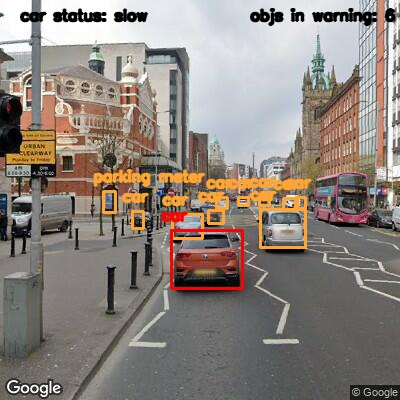
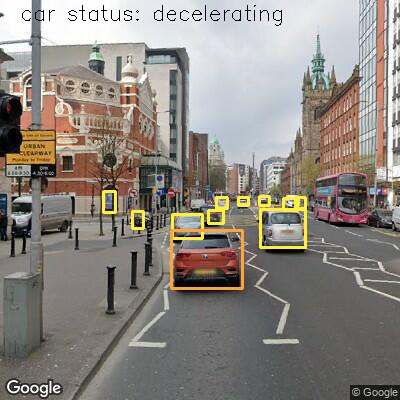
updated car status to accerate, decelerate and stop

Changed region(s): [[0.21, 0.42, 0.78, 0.75], [0.03, 0.0, 0.57, 0.06], [0.6, 0.0, 0.99, 0.06]]

diff --git a/learning_darkflow.py b/learning_darkflow.py
@@ -18,7 +18,10 @@ from darkflow.net.build import TFNet
 options = {"model": "./cfg/yolov2.cfg", "load": "./cfg/bin/yolov2.weights", "threshold": 0.1, "gpu": 1.0}
 tfnet = TFNet(options)
 
-objs_in_range = np.empty((3,2))
+prev_objs_in_slow_range = []
+prev_objs_in_stop_range = []
+objs_in_slow_range = []
+objs_in_stop_range = []
 car_status = ""
 folder = "test_route"
 routes = os.listdir("./{0}/".format(folder))
@@ -53,44 +56,59 @@ slow_zone = np.array([[driving_path[0][0],driving_path[0][1]+50],
 def decide_box_colour(label):
     colour = (0,0,255)
     if label.startswith("danger"):
+        colour = (51,165,255)
+    if label.startswith("stop"):
         colour = (0,0,255)
     if label.startswith("warning"):
+        colour = (51,240,255)
+    if label.startswith("slow"):
         colour = (51,165,255)
     return colour
 
-def check_status_of_car(num_of_pos_collision, num_of_obj_ahead):
-    if num_of_pos_collision > 0:
+def check_status_of_car():
+    status =''
+    status = check_stop_zone()
+    if status != "driving":
+        return status
+    status = check_slow_zone()
+    return status
+
+
+def check_stop_zone():
+    if len(objs_in_stop_range) > 0:
         return "stopped"
-    elif num_of_obj_ahead > 0:
-        return "slow"
-    else :
+    elif len(prev_objs_in_stop_range) > 0 and len(objs_in_stop_range) == 0:
+        return "accelerating"
+    else:
         return "driving"
 
-def write_boundingboxes(results, imgcv, new_img):
-    # cv2.imwrite(new_img, imgcv)
-    # imgcv = cv2.imread(new_img)
-    ## ROI: region of interest
-    num_of_pos_collision = 0
-    num_of_obj_ahead = 0
-    results = check_if_object_in_path(results)
+def check_slow_zone():
+    if len(prev_objs_in_slow_range) == 0 and len(objs_in_slow_range) > 0 :
+        return "decelerating"
+    elif len(objs_in_slow_range) > 0:
+        objs_in_slow_range.sort()
+        if len(prev_objs_in_slow_range) > 0:
+            prev_objs_in_slow_range.sort()
+            if objs_in_slow_range[-1] > prev_objs_in_slow_range[-1]:
+                return "decelerating"
+            elif objs_in_slow_range[-1] < prev_objs_in_slow_range[-1]:
+                return "accelerating"
+            else:
+                return "slow"
+        else:
+            return "slow"
+    else:
+        return "driving"
+
+
+def write_boundingboxes(results, imgcv, new_img, car_status):
     for result in results:
         if result['status']=='': continue 
         cv2.rectangle(imgcv,
                      (result["topleft"]["x"], result["topleft"]["y"]),
                      (result["bottomright"]["x"],result["bottomright"]["y"]),
                      decide_box_colour(result["status"]), 2)
-        text_x, text_y = int(result["topleft"]["x"]) - 10, int(result["topleft"]["y"]) - 10
-        cv2.putText(imgcv, result["label"], (text_x, text_y),cv2.FONT_HERSHEY_SIMPLEX, 0.5, decide_box_colour(result['status']), 2, cv2.LINE_AA)
-        if result['status'] == 'stop': 
-            num_of_pos_collision += 1
-        if result['status'] == 'slow': 
-            num_of_obj_ahead += 1
-            add_obj_to_warning_list(result["topleft"]["y"])
-
-    car_status = check_status_of_car(num_of_pos_collision,num_of_obj_ahead)
-    cv2.putText(imgcv, "car status: {0}".format(car_status), (20, 20),cv2.FONT_HERSHEY_SIMPLEX, 0.5, (0,0,0), 2, cv2.LINE_AA)
-    cv2.putText(imgcv, "objs in warning: {0}".format(objs_in_range.size), (250, 20),cv2.FONT_HERSHEY_SIMPLEX, 0.5, (0,0,0), 2, cv2.LINE_AA)
-
+    cv2.putText(imgcv, "car status: {0}".format(car_status), (20, 20),cv2.FONT_HERSHEY_SIMPLEX, 0.7, (0,0,0))
     cv2.imwrite(new_img, imgcv)
 
 def convertToGif(images, path, route):
@@ -101,39 +119,56 @@ def convertToGif(images, path, route):
         imageio.mimsave('./{0}/{1}/journey.gif'.format(path, route),img_list, duration=0.2)
 
 def objectInSector(result, poly, message):
-    point1 = Point(result['topleft']['x'], result['topleft']['y'])
-    point2 = Point(result['bottomright']['x'], result['bottomright']['y'])
-    point3 = Point(result['topleft']['x'], result['bottomright']['y'])
-    point4 = Point(result['bottomright']['x'], result['topleft']['y'])
-    if poly.contains(point1):
-        result['status'] = message
-    elif poly.contains(point2):
-        result['status'] = message
-    elif poly.contains(point3):
-        result['status'] = message
-    elif poly.contains(point4):
-        result['status'] = message
-    return result
+    corners = np.array([[result['topleft']['x'], result['topleft']['y']],
+                       [result['bottomright']['x'], result['bottomright']['y']],
+                       [result['topleft']['x'], result['bottomright']['y']],
+                       [result['bottomright']['x'], result['topleft']['y']]], np.int32)  
+    for corner in corners:
+        corner = Point(corner)
+        if poly.contains(corner):
+            return True
+    
+    return False
 
+def clearObjLists():
+    objs_in_slow_range.clear()
+    objs_in_stop_range.clear()
 
+def set_prev_obj():
+    global prev_objs_in_slow_range
+    global prev_objs_in_stop_range
+    prev_objs_in_slow_range.clear()
+    prev_objs_in_stop_range.clear()
+    prev_objs_in_slow_range = objs_in_slow_range.copy()
+    prev_objs_in_stop_range = objs_in_stop_range.copy()    
 
 def check_if_object_in_path(results):
+    clearObjLists()
     for result in results:
         result['status'] = ''
-        result = objectInSector(result, Polygon(warning_left_sector), "warning" )
-        result = objectInSector(result, Polygon(warning_right_sector), "warning" )
-        result = objectInSector(result, Polygon(danger_left_sector), "danger" )
-        result = objectInSector(result, Polygon(danger_right_sector), "danger" )
-        result = objectInSector(result, Polygon(stopping_zone), "stop" )
-        result = objectInSector(result, Polygon(slow_zone), "slow" )   
+        if objectInSector(result, Polygon(warning_left_sector), "warning" ) or objectInSector(result, Polygon(warning_right_sector), "warning" ):
+            result['status'] = "warning"
+        if objectInSector(result, Polygon(danger_left_sector), "danger" ) or objectInSector(result, Polygon(danger_right_sector), "danger" ):
+            result['status'] = "danger"
+        if objectInSector(result, Polygon(slow_zone), "slow" ):
+            result['status'] = "slow"
+            add_obj_to_warning_list(result['bottomright']['y'])
+        if objectInSector(result, Polygon(stopping_zone), "stop" ):
+            result['status'] = "stop"
+            add_obj_to_danger_list(result['bottomright']['y'])
+
     return results
     
 def add_obj_to_warning_list(y):
-    np.append(objs_in_range,y)
+    objs_in_slow_range.append(y)
+
+
+def add_obj_to_danger_list(y):
+    objs_in_stop_range.append(y)
+
 
 
 def get_prediction(routes):
-
     for route in routes:
         steps = os.listdir('./{0}/{1}/'.format(folder,route))
         steps = sorted(steps)
@@ -142,12 +177,15 @@ def get_prediction(routes):
             print("starting prediction")
             results = tfnet.return_predict(imgcv)
             print("results collected")
+            results = check_if_object_in_path(results)
+            car_status = check_status_of_car()
+            set_prev_obj()
             if os.path.exists('./{0}/{1}/'.format(predicted_path, route)):
-                write_boundingboxes(results, imgcv, './{0}/{1}/{2}'.format(predicted_path, route, step))
+                write_boundingboxes(results, imgcv, './{0}/{1}/{2}'.format(predicted_path, route, step), car_status)
             else:
                 try:
                     os.mkdir('./{0}/{1}/'.format(predicted_path, route))
-                    write_boundingboxes(results, imgcv, './{0}/{1}/{2}'.format(predicted_path,route, step))
+                    write_boundingboxes(results, imgcv, './{0}/{1}/{2}'.format(predicted_path,route, step), car_status)
                 except OSError:
                     print ("Creation of the directory ./{0}/{1} failed".format(predicted_path, route))
                 else:
